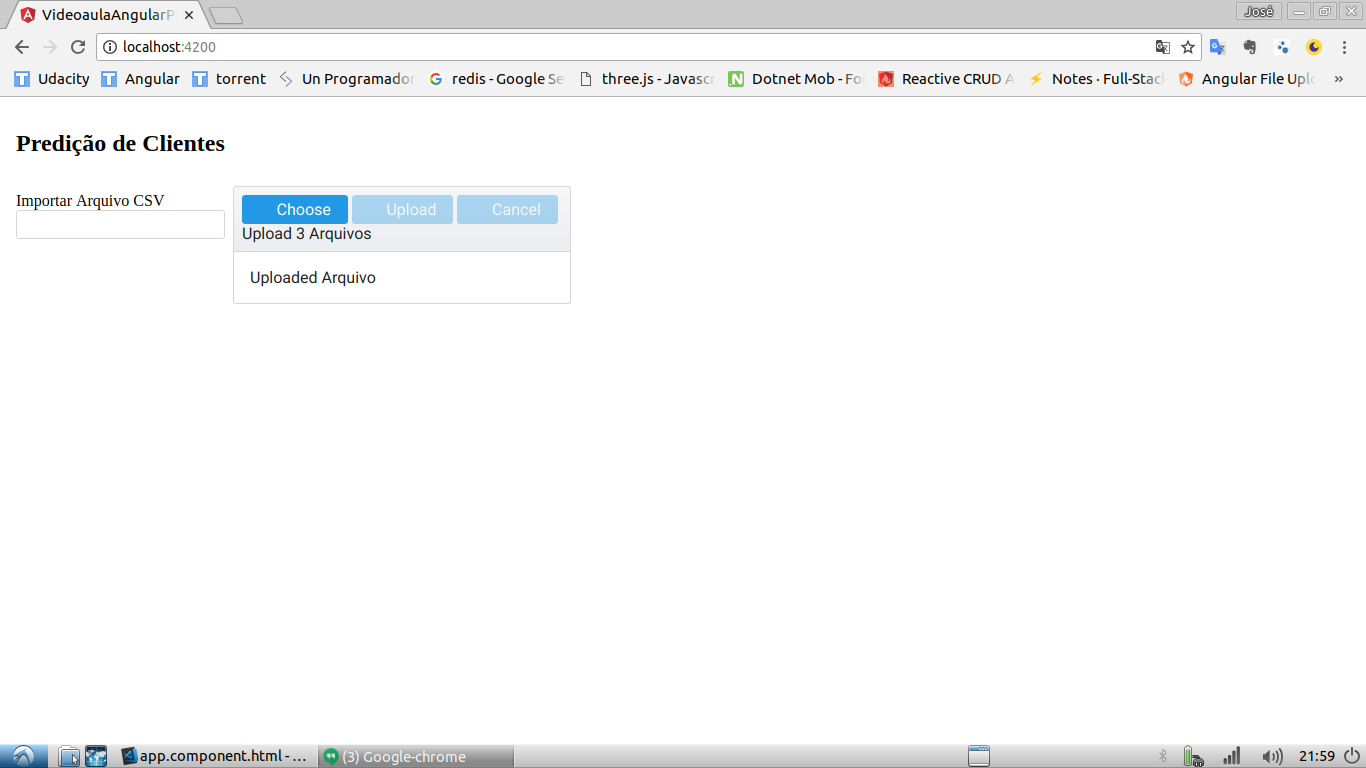
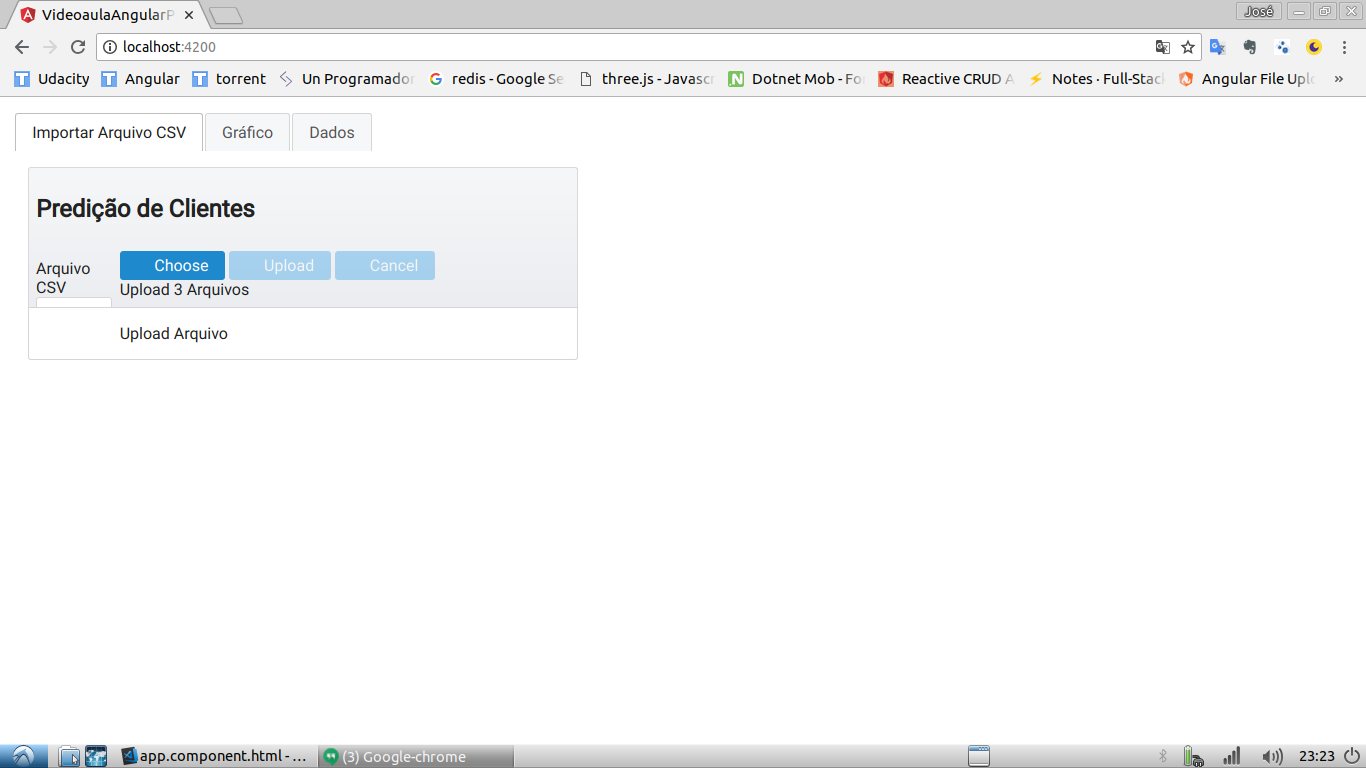
first commit

Changed region(s): [[0.0, 0.25, 0.4305, 0.4688], [0.0, 0.1562, 0.2767, 0.2188], [0.9531, 0.9688, 0.9839, 1.0]]

diff --git a/src/app/app.component.html b/src/app/app.component.html
@@ -1,27 +1,40 @@
 <form>
   <div class="ui-g">
+   
+    <p-tabView>
+      
+        <p-tabPanel header="Importar Arquivo CSV">
+            <div class="ui-g-12 ui-fluid">
+                <h2>Predição de Clientes</h2>
+              </div>
+          
+              <div class="ui-g-12 ui-md-4 ui-lg-2 ui-fluid">
+                <label>Arquivo CSV</label>
+                <input pInputText/>
+              </div>
+          
+              <p-fileUpload name="myfile[]" url="./upload.php" multiple="multiple"
+                  accept="image/*" maxFileSize="1000000">
 
-    <div class="ui-g-12 ui-fluid">
-      <h2>Predição de Clientes</h2>
-    </div>
+                  <ng-template pTemplate="toolbar">
+                      <div>Upload 3 Arquivos</div>
+                  </ng-template>
+                  <ng-template let-file pTemplate="file">
+                      <div>Upload Arquivo</div>
+                  </ng-template>
+                  <ng-template pTemplate="content">
+                      <div>Upload Arquivo</div>
+                  </ng-template>
 
-    <div class="ui-g-12 ui-md-4 ui-lg-2 ui-fluid">
-      <label>Importar Arquivo CSV</label>
-      <input pInputText/>
-    </div>
+              </p-fileUpload>
 
-    <p-fileUpload name="myfile[]" url="./upload.php" multiple="multiple"
-        accept="image/*" maxFileSize="1000000">
-        <ng-template pTemplate="toolbar">
-            <div>Upload 3 Arquivos</div>
-        </ng-template>
-        <ng-template let-file pTemplate="file">
-            <div>Uploaded Arquivo</div>
-        </ng-template>
-        <ng-template pTemplate="content">
-            <div>Uploaded Arquivo</div>
-        </ng-template>
-    </p-fileUpload>
+        </p-tabPanel>
+        <p-tabPanel header="Gráfico">            
+        </p-tabPanel>
+        <p-tabPanel header="Dados">            
+        </p-tabPanel>
 
+    </p-tabView>
+  
   </div>
 </form>

diff --git a/src/app/app.component.ts b/src/app/app.component.ts
@@ -1,10 +1,12 @@
 import { Component } from '@angular/core';
-
 @Component({
   selector: 'app-root',
   templateUrl: './app.component.html',
   styleUrls: ['./app.component.css']
 })
 export class AppComponent {
+
   title = 'app';
+
+
 }

diff --git a/predicao.py b/predicao.py
@@ -29,7 +29,6 @@ teste_marcacoes = Y[tamanho_de_treino:fim_de_treino]
 validacao_dados = X[fim_de_treino:]
 validacao_marcacoes = Y[fim_de_treino:]
 
-
 def fit_and_predict(nome, modelo, treino_dados, treino_marcacoes, teste_dados, teste_marcacoes):
 	modelo.fit(treino_dados, treino_marcacoes)
 
